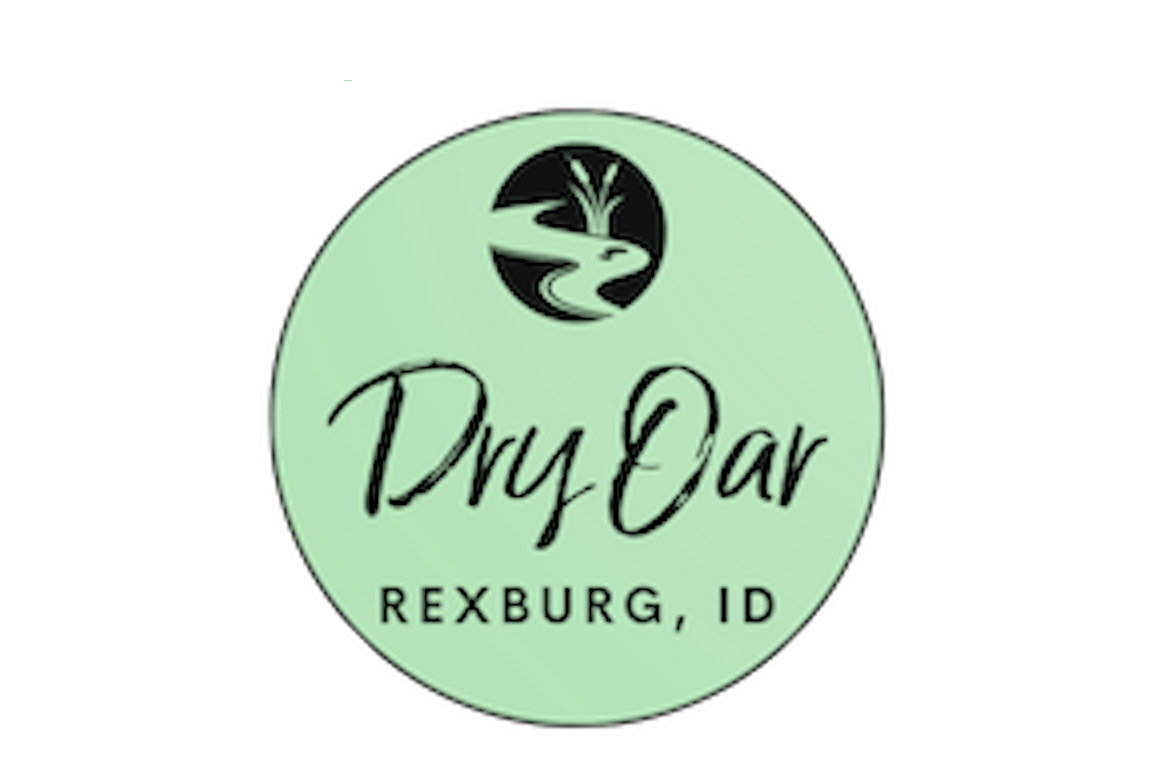
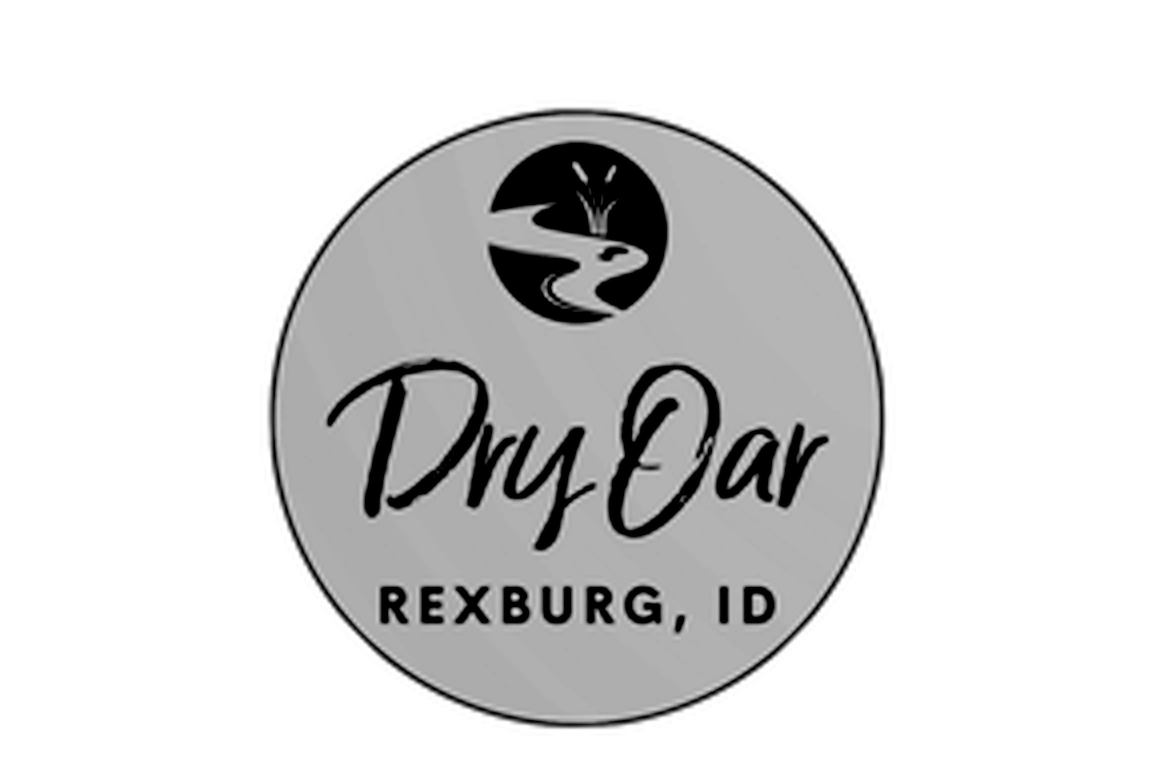
final changes to main page

diff --git a/wwr/styles/styles.css b/wwr/styles/styles.css
@@ -1,4 +1,4 @@
-@import url('https://fonts.googleapis.com/css2?family=Comfortaa&family=Montserrat:wght@300&display=swap');
+@import url('https://fonts.googleapis.com/css2?family=Montserrat&family=Syne+Tactile&display=swap');
 
 #content {
     max-width: 1600px;
@@ -7,12 +7,12 @@
 
 nav a {
     text-align: center;
-    background-color: #05668d;
-    color: #02c39a;
+    background-color: rgba(30, 40, 30, 0.5);
+    color: rgb(200, 200, 200);
     text-decoration: none;
     padding-top: 24px;
-    padding-right: 115px;
-    padding-left: 115px;
+    padding-right: 116px;
+    padding-left: 116px;
 }
 
 nav {
@@ -61,7 +61,7 @@ main section {
 
 #background {
     height: 725px;
-    background-color: #05668d;
+    background-color: rgb(80, 200, 255);
 }
 
 body {
@@ -69,7 +69,7 @@ body {
     font-size: 22px;
     margin: 0;
     padding: 0;
-    background-color: #028090;
+    background-color: rgb(212, 231, 240);
 }
 
 h2 {
@@ -77,14 +77,14 @@ h2 {
 }
 
 header {
-    background-color: #05668d;
+    background-color: rgba(30, 40, 30, 0.5);
     display: grid;
     grid-template-columns: 150px auto;
 }
 
 nav a:hover {
-    background-color: #02c39a;
-    color: black; 
+    background-color: rgba(61, 87, 61, 0.5);
+    color: rgb(150, 150, 150); 
     text-decoration: none;
 }
 
@@ -94,12 +94,14 @@ nav a:hover {
 }
 
 .book:hover, .join:hover {
-    background-color: #028090;
+    color:rgb(56, 64, 68);
+    background-color: rgb(135, 220, 255);
+    text-decoration: none;
 }
 
 .msg {
     line-height: 1.5em;
-    background-color: #00a896;
+    background-color: rgb(40, 180, 185);
     padding: 35px;
     grid-column: 6/10;
     grid-row: 6/7;
@@ -108,7 +110,7 @@ nav a:hover {
 }
 
 footer {
-    background-color: #00a896;
+    background-color: rgb(40, 180, 185);
     padding: 25px 50px;
     margin-top: 200px;
     display: flex;
@@ -121,10 +123,10 @@ footer .social img {
 }
 
 .home-title {
-    font-family: "Comfortaa", Helvetica, sans-serif;
-    font-size: 2em;
-    color: white;
-    margin-top: 10px;
+    font-family: "Syne Tactile", Helvetica, sans-serif;
+    font-size: 75px;
+    color: rgb(80, 200, 255);
+    margin-top: 15px;
 } 
 
 h4 {
@@ -132,42 +134,45 @@ h4 {
 }
 
 .book, .join {
-    font-size: 18px;
-    background-color: #05668d;
-    color: white;
+    font-size: 24px;
+    background-color: rgb(80, 200, 255);
+    color: black;
     text-decoration: none;
     margin-top: 50px;
     border-radius: 5px;
 }
 
 .msg h2 {
-    font-family: "Comfortaa", Helvetica, sans-serif;
-    background-color: #00a896;
+    font-family: "Syne Tactile", Helvetica, sans-serif;
+    background-color: rgb(40, 180, 185);
     color: black;
 }
 
 .msg p {
     font-size: 0.8em;
-    background-color: #00a896;
+    background-color: rgb(40, 180, 185);
     color: black;
     padding: 25px 50px;
 }
 
 footer h3 {
-    background-color: #00a896;
-    color: black;
-    text-decoration: underline;
-}
-
-footer a {
-    background-color: #00a896;
+    background-color: rgb(40, 180, 185);
     color: black;
     text-decoration: none;
 }
 
-footer a:hover {
-    background-color: #028090;
+footer a {
+    background-color: rgb(40, 180, 185);
     color: black;
+    text-decoration: none;
+    padding: 15px;
+    border-radius: 25%;
+}
+
+footer a:hover {
+    background-color: rgb(212, 231, 240);
+    color: black;
+    text-decoration: none;
 }
 
 .logo {
@@ -186,6 +191,7 @@ footer a:hover {
 }
 
 #hero-img {
+    background-color: rgb(255, 255, 255);
     width: 100%;
 }
 
@@ -198,7 +204,7 @@ a:hover {
 }
 
 .card-img {
-    border: 10px solid gray;
+    border: 10px solid rgb(80, 200, 255);
     transition: transform .5s;
     box-shadow: 5px 5px 10px #6f7364
 }

diff --git a/wwr/index.html b/wwr/index.html
@@ -25,7 +25,7 @@
                 <img id="hero-img" src="images/hero.png" alt="People enjoying rafting">
             </div>
             <section id="hero-msg">
-                <h1 class="home-title">Have An Adventure</h1>
+                <h1 class="home-title">Have An Adventure!</h1>
                 <h4>Make memories with Dry Oar </h4>
                 <div class='button-box'>
                     <a class='book' href="rates.html">Book Now</a>
